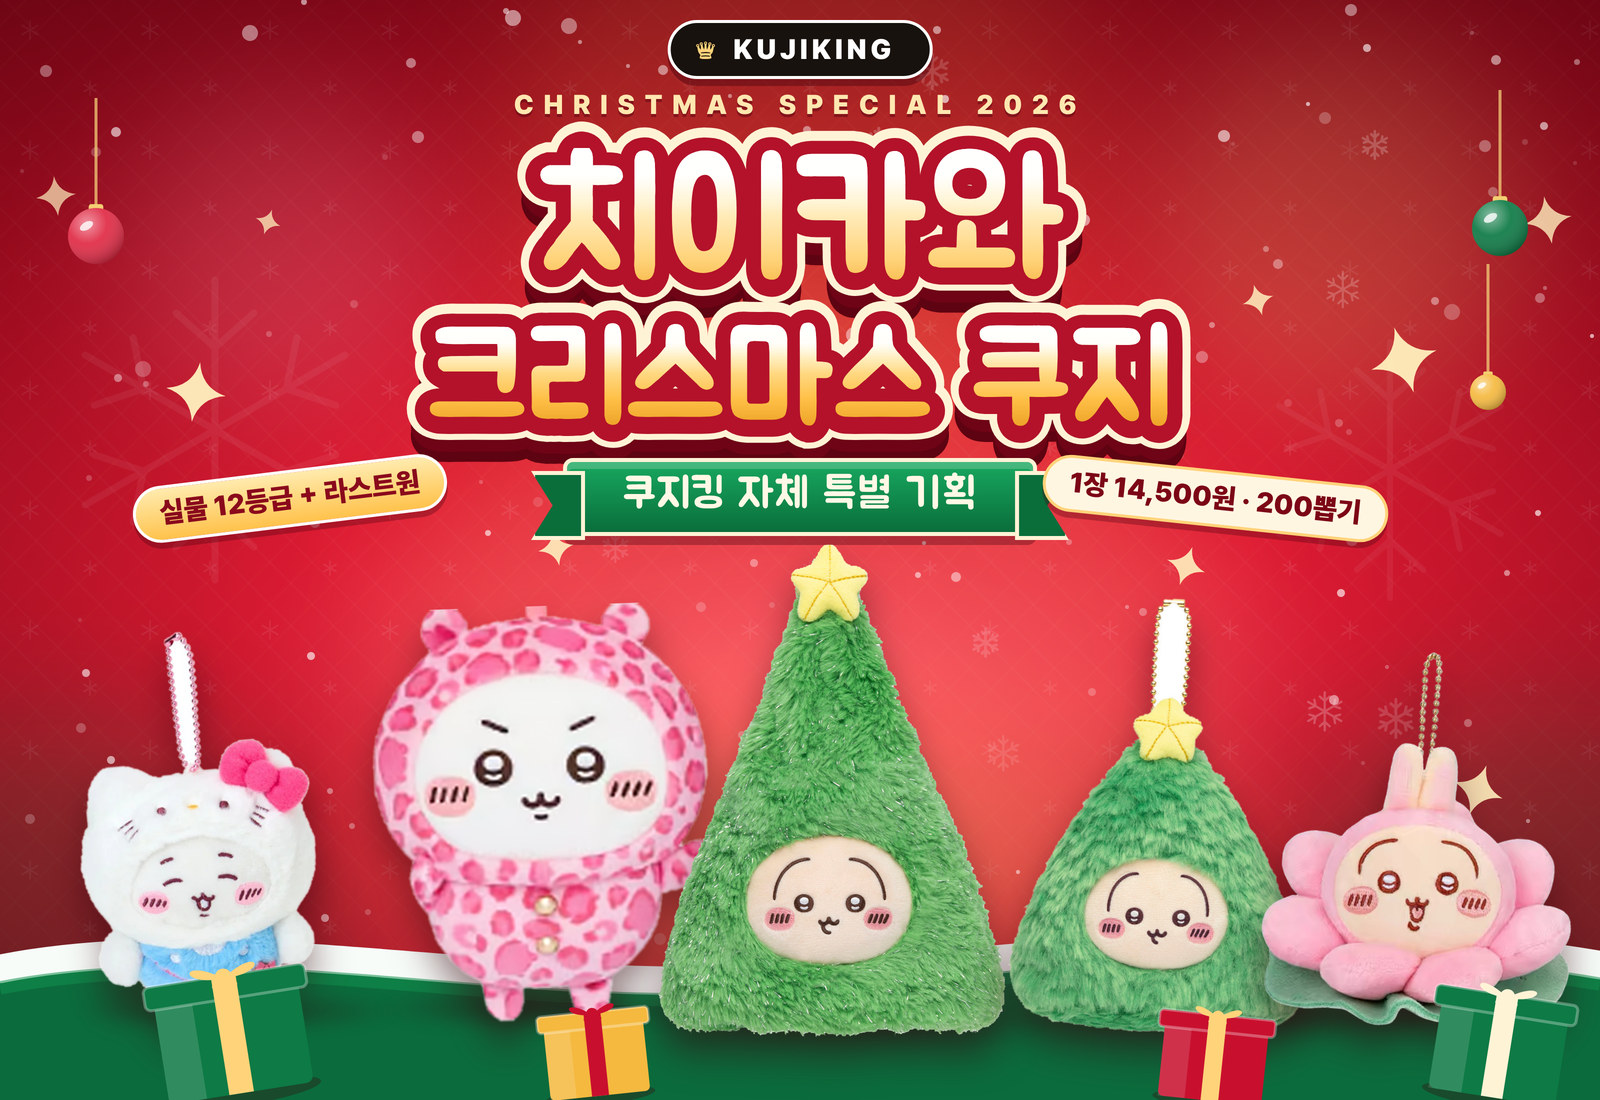
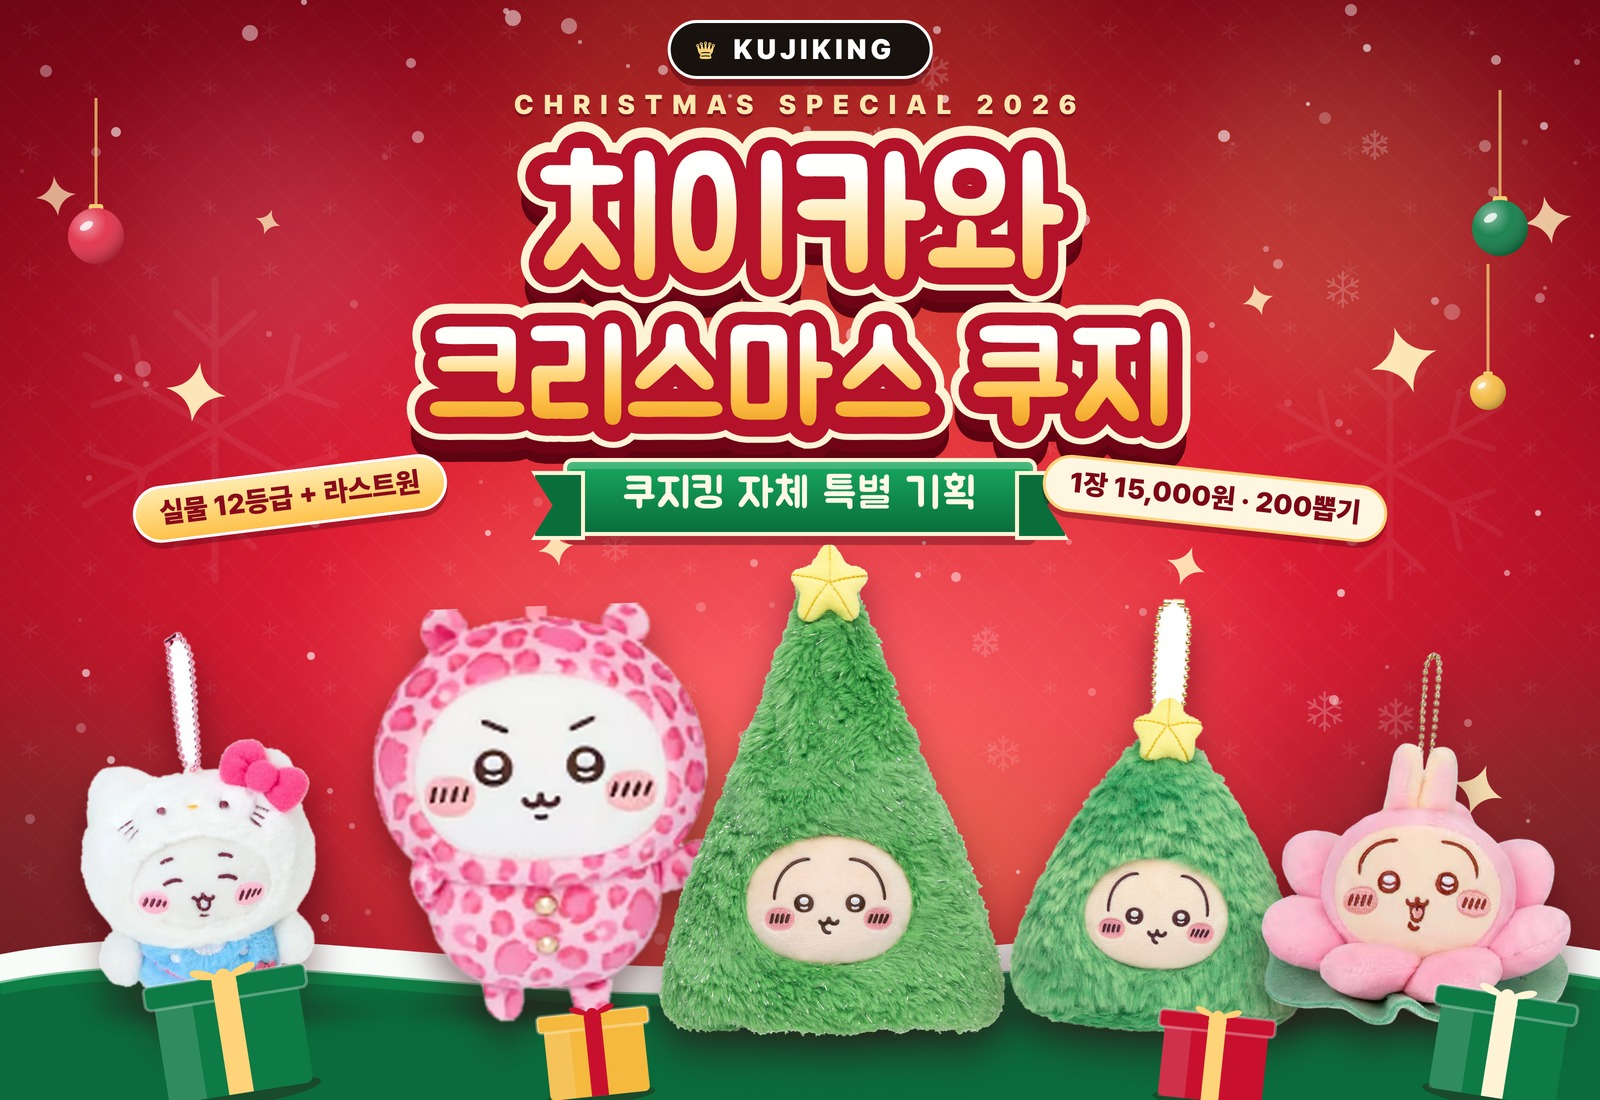
v4.1.5: P상 카드에 치이카와 골드 코인 이미지(assets/products/point/p.jpg) 적용 · 크리스마스 커버 배지 1장 15,000원 · COVER_VER 4.1.5

diff --git a/assets/app.js b/assets/app.js
@@ -120,7 +120,9 @@
   }
   var h = escapeHtml;
   /* 실물 커버 등 상품 이미지 캐시 갱신용 버전 (커버 교체 시 올린다) */
-  var COVER_VER = '4.1.4';
+  var COVER_VER = '4.1.5';
+  /* P상(굿즈 포인트) 카드 기본 이미지 — 판에 P상 이미지가 없으면 이 이미지를 쓴다 */
+  var POINT_IMG = 'assets/products/point/p.jpg';
   function coverSrc(url) {
     if (!url || !/^(\.\/)?assets\/products\//.test(url)) return url;
     return url + (url.indexOf('?') === -1 ? '?v=' : '&v=') + COVER_VER;
@@ -3238,6 +3240,9 @@
   }
 
   function tierThumb(t, cls) {
+    if (t && !t.image && (t.pointOnly || String(t.grade).toUpperCase() === 'P')) {
+      return '<span class="' + (cls || 'tier-thumb') + '"><img src="' + h(coverSrc(POINT_IMG)) + '" alt="P상" loading="lazy" decoding="async"></span>';
+    }
     if (!t || !t.image) {
       return '<span class="' + (cls || 'tier-thumb') + ' is-empty" style="background:' + gradeColor(t ? t.grade : 'e') + '22">' +
         '<b style="color:' + gradeColor(t ? t.grade : 'e') + '">' + h(t ? t.grade : '-') + '</b></span>';
@@ -3656,7 +3661,7 @@
       return '<button type="button" class="prize-card' + (left === 0 ? ' is-out' : '') + (isP ? ' is-point' : '') + '" data-action="zoom-tier" data-grade="' + h(t.grade) + '">' +
           '<span class="prize-media">' +
             (t.image ? '<img src="' + h(coverSrc(t.image)) + '" alt="' + h(t.label) + '" loading="lazy" decoding="async">'
-                     : (isP ? '<span class="prize-media-point"><b>P</b><em>' + fmt(t.points) + 'P</em></span>'
+                     : (isP ? '<img src="' + h(coverSrc(POINT_IMG)) + '" alt="P상 굿즈 포인트 ' + fmt(t.points) + 'P" loading="lazy" decoding="async">'
                             : '<span class="prize-media-empty" style="color:' + gradeColor(t.grade) + '">' + h(t.grade) + '</span>')) +
             (t.image ? '' : '<span class="rank-badge grade-' + h(String(t.grade).toLowerCase()) + '">' + h(t.grade) + '상</span>') +
             (left === 0 ? '<span class="prize-out">소진</span>' : '') +
@@ -3774,7 +3779,8 @@
       '<div class="zoom-view' + (isP ? ' is-point' : '') + '">' +
         '<div class="zoom-media">' +
           (image ? '<img src="' + h(image) + '" alt="' + h(label) + '">'
-                 : (isP ? '<div class="zoom-point"><b>P</b><em>' + fmt(t.points) + 'P</em></div>' : '<div class="zoom-empty">이미지 준비 중</div>')) +
+                 : (isP ? '<img src="' + h(coverSrc(POINT_IMG)) + '" alt="P상 굿즈 포인트 ' + fmt(t.points) + 'P">'
+                        : '<div class="zoom-empty">이미지 준비 중</div>')) +
           (image ? '' : '<span class="rank-badge ' + badgeCls + ' lg">' + h(badgeTxt) + '</span>') +
         '</div>' +
         '<h2 class="zoom-title">' + h(label) + '</h2>' +

diff --git a/index.html b/index.html
@@ -789,6 +789,6 @@
 </div>
 
 <script src="assets/config.js?v=3.0.2"></script>
-<script src="assets/app.js?v=4.1.2" defer></script>
+<script src="assets/app.js?v=4.1.5" defer></script>
 </body>
 </html>
